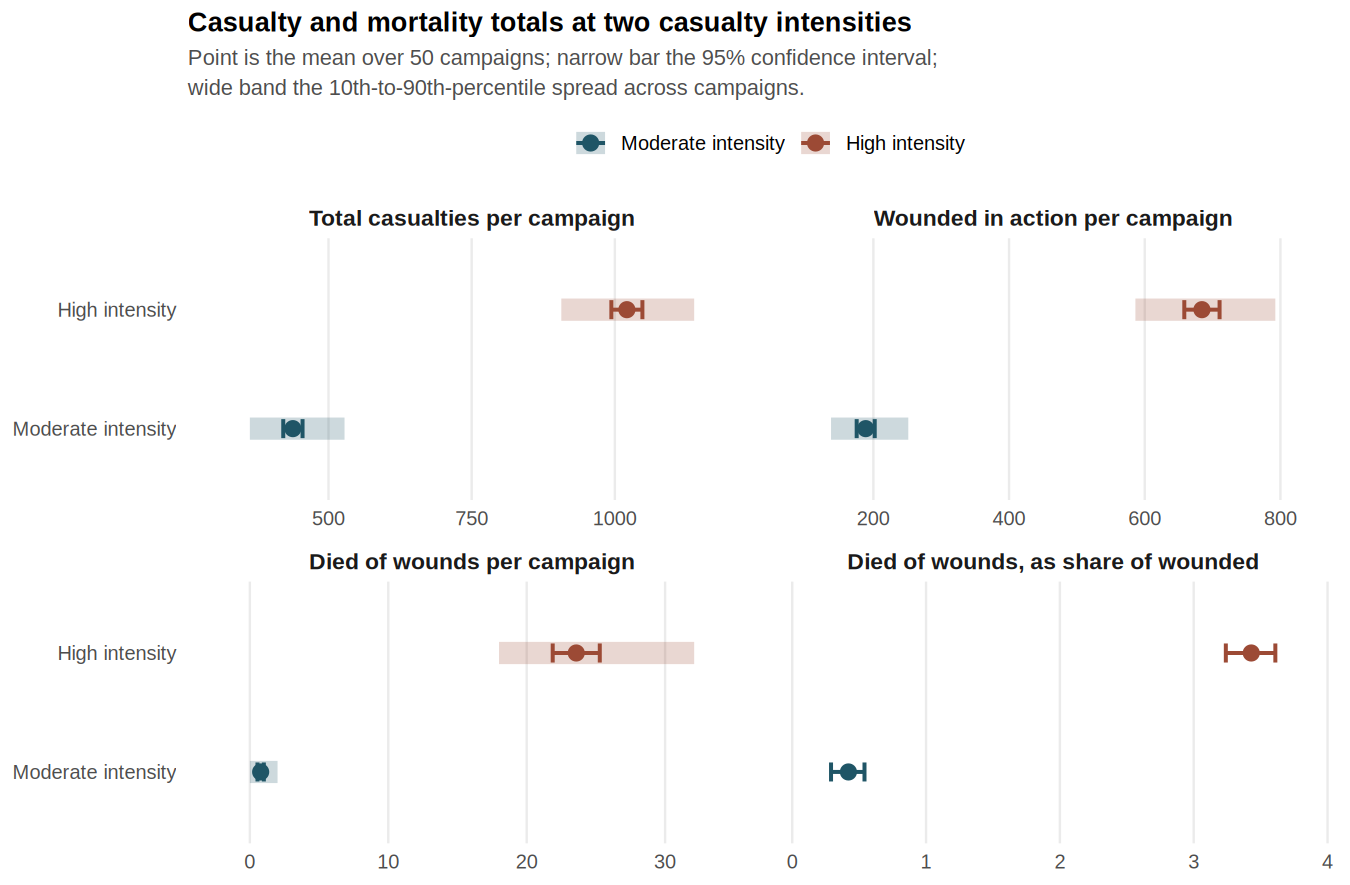
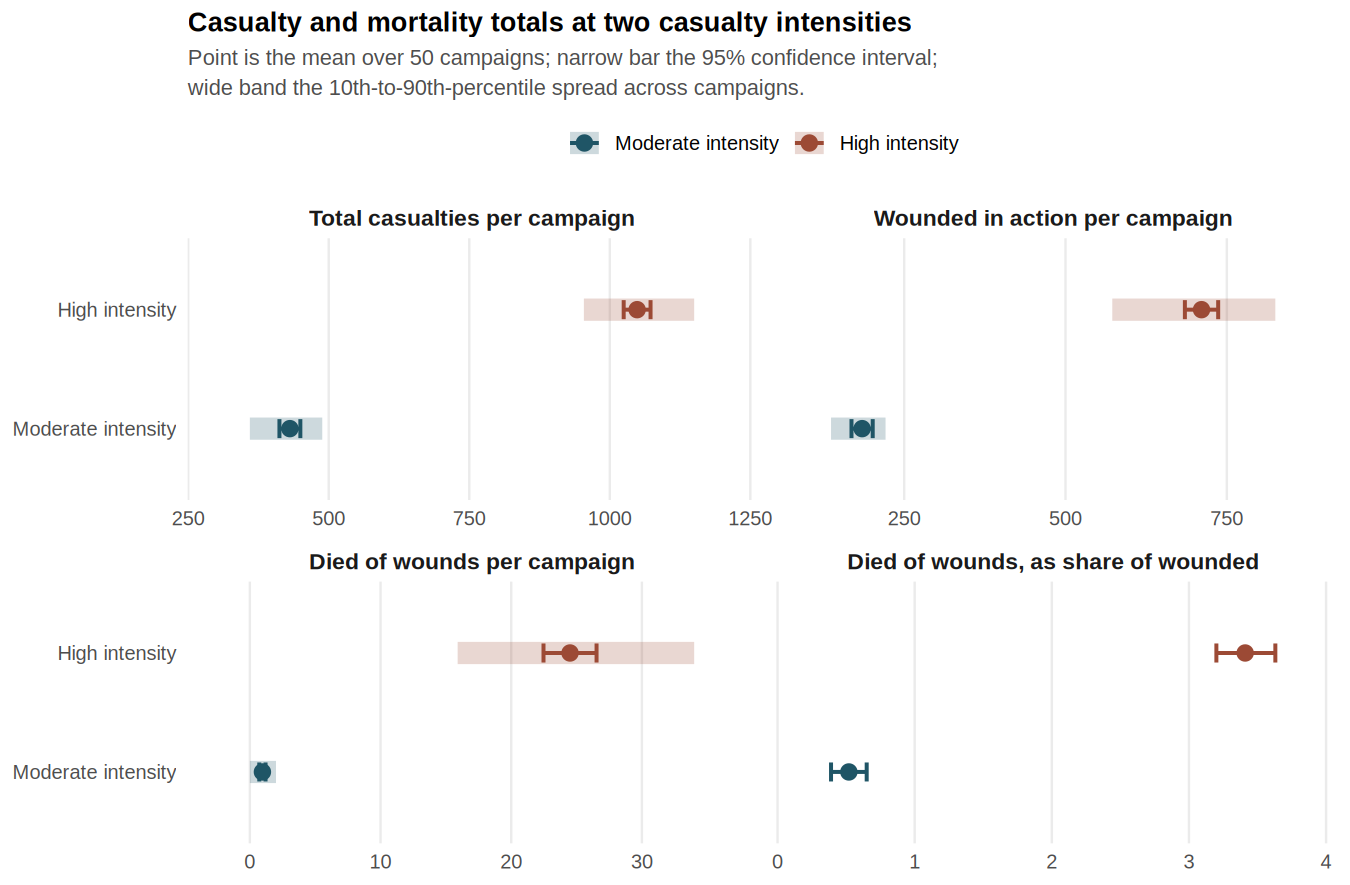
docs(issue-312): refresh the comparative scenario results for the new defaults
Re-measures the 50-replication comparative scenario analysis under the
sustained-campaign defaults and updates every figure in
docs/Multi_Run_Analysis.md that derives from it, together with the three
paper figures that are rendered from those tables.

Totals, moderate then high intensity: casualties 430.9 [412.3, 449.5] and
1,048.6 [1,024.7, 1,072.5]; wounded 184.8 [168.3, 201.2] and 710.8 [685.0,
736.6]; died of wounds 0.96 [0.72, 1.20] and 24.50 [22.47, 26.53]; deaths as
a share of wounded 0.52% [0.39%, 0.65%] and 3.41% [3.20%, 3.63%]. The volume
ratio moves from 2.33 to 2.43 and the mortality ratio from 30.2 to 25.5.

Queue groups move in the direction the evacuation policy change predicts. R2E
holding falls from 0.598 to 0.272, more than halving, and six of the thirty
R2E holding beds are now idle across all fifty replications at moderate
intensity, so the pool is no longer consumed by convalescence. R2E intensive
care falls from 0.131 to 0.092. R2E operating theatre rises from 1.063 to
1.677, more casualties reaching theatre once the beds behind it are free. R2B
holding is essentially unchanged at 0.571 against 0.593, which is the expected
result and serves as a control: R2B is untouched by either default, so a large
move there would have indicated an aggregation error rather than an effect.

The prose that quotes these values is updated with them, in the abstract, the
diagnosis section, the interval-interpretation worked example, the conclusion
[…]

diff --git a/docs/Multi_Run_Analysis.md b/docs/Multi_Run_Analysis.md
@@ -18,7 +18,7 @@ A discrete event simulation of a brigade force with aligned health assets was ru
 
 **Results**
 
-Casualty volume rises 2.33-fold from moderate to high intensity, while queues grow disproportionately. The Role 2 Enhanced (R2E) operating theatre queue rises about 36-fold, Role 2 Basic (R2B) holding beds about 5.5-fold, R2E holding beds about 4.5-fold and R2E intensive care about 4.3-fold. Surgical team scheduling is the major system constraint: a casualty occupies a theatre while waiting for a rostered surgical team, and the teams work 12-hour shifts against theatres available around the clock. R2E intensive care runs close to full at both intensities. The ambulance and truck fleets hold margin at both intensities.
+Casualty volume rises 2.43-fold from moderate to high intensity, while queues grow disproportionately. The Role 2 Enhanced (R2E) operating theatre queue rises about 26-fold, Role 2 Basic (R2B) holding beds about 5.6-fold, R2E holding beds about 5.3-fold and R2E intensive care about 6.4-fold. Surgical team scheduling is the major system constraint: a casualty occupies a theatre while waiting for a rostered surgical team, and the teams work 12-hour shifts against theatres available around the clock. R2E intensive care runs close to full at both intensities. The ambulance and truck fleets hold margin at both intensities.
 
 **Conclusion**
 
@@ -118,7 +118,7 @@ $$\bar{x} \pm t_{0.975,\;n-1}\,\frac{s}{\sqrt{n}}$$
 
 where $n$ is the number of runs, $\bar{x}$ the average across them and $s$ the variation between them. Dividing by the square root of the number of runs is what makes additional runs improve precision: quadrupling the runs halves the width of the interval.
 
-Two points govern how these intervals should be used. First, the interval describes how precisely the average is known, not how much one campaign varies. Several tables also report a 10th-to-90th-percentile range, which is the spread across campaigns, and it is many times the wider of the two. At moderate intensity, for example, the average campaign produces 437.8 casualties and that average is known to within about 17 either way, while the campaigns themselves range from 363 to 528. Sizing against 438 under-provides for the campaign that actually occurs. Second, where two intervals overlap, the simulation has not established a difference between them, and the gap between the two averages should not be acted on as though it were real.
+Two points govern how these intervals should be used. First, the interval describes how precisely the average is known, not how much one campaign varies. Several tables also report a 10th-to-90th-percentile range, which is the spread across campaigns, and it is many times the wider of the two. At moderate intensity, for example, the average campaign produces 430.9 casualties and that average is known to within about 19 either way, while the campaigns themselves range from 360 to 489. Sizing against 431 under-provides for the campaign that actually occurs. Second, where two intervals overlap, the simulation has not established a difference between them, and the gap between the two averages should not be acted on as though it were real.
 
 ### Replication Count and Resolution
 
@@ -150,7 +150,7 @@ Element, bed and transport fleet sizes are parameters a planner using the simula
 
 <small>[Return to Top](#contents)</small>
 
-**The establishment gives way at the R2E operating theatres before anywhere else, and it is already under strain at moderate intensity rather than only at high.** Casualty volume rises by a factor of 2.33 from moderate to high intensity while the R2E theatre queue rises by a factor of about 36. Sizing the system from the casualty ratio alone would under-provide surgery by more than an order of magnitude.
+**The establishment gives way at the R2E operating theatres before anywhere else, and it is already under strain at moderate intensity rather than only at high.** Casualty volume rises by a factor of 2.43 from moderate to high intensity while the R2E theatre queue rises by a factor of about 26. Sizing the system from the casualty ratio alone would under-provide surgery by an order of magnitude.
 
 ### Comparative Scenario Analysis
 
@@ -158,14 +158,14 @@ Element, bed and transport fleet sizes are parameters a planner using the simula
 
 | Metric | Moderate intensity | High intensity | Ratio |
 |---|---|---|---|
-| Total casualties/run | 437.8 [421.0, 454.7] (p10–p90: 362.7–528.0) | 1,021.0 [993.9, 1,048.1] (p10–p90: 906.5–1,138.5) | 2.33× |
-| Wounded in action/run | 188.7 [175.4, 202.0] (p10–p90: 137.6–251.5) | 684.3 [658.3, 710.3] (p10–p90: 586.2–792.5) | 3.63× |
-| Died of wounds/run | 0.78 [0.55, 1.01] (p10–p90: 0–2.0) | 23.58 [21.88, 25.28] (p10–p90: 18.0–32.1) | 30.2× |
-| Died of wounds, as share of wounded | 0.42% [0.29%, 0.54%] | 3.43% [3.24%, 3.61%] | 8.24× |
+| Total casualties/run | 430.9 [412.3, 449.5] (p10–p90: 359.7–488.5) | 1,048.6 [1,024.7, 1,072.5] (p10–p90: 953.9–1,150.1) | 2.43× |
+| Wounded in action/run | 184.8 [168.3, 201.2] (p10–p90: 136.6–221.1) | 710.8 [685.0, 736.6] (p10–p90: 572.5–825.2) | 3.85× |
+| Died of wounds/run | 0.96 [0.72, 1.20] (p10–p90: 0–2.0) | 24.50 [22.47, 26.53] (p10–p90: 15.9–34.0) | 25.5× |
+| Died of wounds, as share of wounded | 0.52% [0.39%, 0.65%] | 3.41% [3.20%, 3.63%] | 6.56× |
 
-Casualty counts vary widely from campaign to campaign, because each arrival stream draws its daily rate from a distribution before placing that day's arrivals within the day [[9]](#references), so the between-day variation FORECAS reports [[3]](#references) reaches the output rather than being averaged away. At moderate intensity the total spans 362.7 to 528.0 casualties between the 10th and 90th percentiles against an average of 437.8. Surge capacity therefore has to be judged against the heavy day rather than the average one.
+Casualty counts vary widely from campaign to campaign, because each arrival stream draws its daily rate from a distribution before placing that day's arrivals within the day [[9]](#references), so the between-day variation FORECAS reports [[3]](#references) reaches the output rather than being averaged away. At moderate intensity the total spans 359.7 to 488.5 casualties between the 10th and 90th percentiles against an average of 430.9. Surge capacity therefore has to be judged against the heavy day rather than the average one.
 
-Deaths of wounds rise 30-fold while casualty volume rises 2.33-fold, but that comparison measures more than the health system, each intensity carrying the survival experience of its own campaign as well as its casualty rate.
+Deaths of wounds rise 25-fold while casualty volume rises 2.43-fold, but that comparison measures more than the health system, each intensity carrying the survival experience of its own campaign as well as its casualty rate.
 
 ![Four panels, one per metric, each plotting moderate and high casualty intensity as a point with a narrow 95% confidence interval bar and a wide band showing the 10th-to-90th-percentile spread across campaigns, for total casualties, wounded in action, deaths of wounds and deaths as a share of wounded](../images/paper_casualty_totals.png)
 
@@ -174,15 +174,15 @@ The width of the pale band against the narrow bar inside it is the point to take
 | Resource group | Moderate intensity mean queue | High intensity mean queue | Ratio |
 |---|---|---|---|
 | R2B operating theatre | 0.000 [0.000, 0.000] | 0.000 [0.000, 0.000] | not applicable |
-| R2B holding beds | 0.593 [0.501, 0.685] | 3.228 [3.005, 3.452] | 5.45× |
-| R2E operating theatre | 1.063 [0.691, 1.435] | 38.17 [34.01, 42.33] | 35.9× |
-| R2E intensive care | 0.131 [0.104, 0.159] | 0.564 [0.464, 0.664] | 4.29× |
-| R2E holding beds | 0.598 [0.437, 0.758] | 2.694 [2.449, 2.938] | 4.51× |
-| Ambulance and truck fleets | 0.0038 [0.0000, 0.0078] | 0.0278 [0.0196, 0.0361] | 7.25× |
+| R2B holding beds | 0.571 [0.447, 0.695] | 3.213 [2.885, 3.541] | 5.63× |
+| R2E operating theatre | 1.677 [0.154, 3.199] | 43.83 [39.35, 48.32] | 26.1× |
+| R2E intensive care | 0.092 [0.065, 0.118] | 0.584 [0.476, 0.692] | 6.37× |
+| R2E holding beds | 0.272 [0.112, 0.433] | 1.454 [1.208, 1.700] | 5.34× |
+| Ambulance and truck fleets | 0.019 [0.000, 0.047] | 0.041 [0.019, 0.064] | 2.16× |
 
 Each figure is the average queue at that group of resources across a campaign, averaged over the 50 runs. A resource that stands idle throughout a campaign contributes a zero rather than dropping out, so the figures describe the full establishment rather than only its busy parts.
 
-![Horizontal plot of queue growth factor on a log scale for five resource groups, with a dashed reference line at the 2.33-fold rise in casualty volume, each point sized by its absolute queue at high intensity, R2E operating theatre furthest right and largest](../images/paper_queue_growth.png)
+![Horizontal plot of queue growth factor on a log scale for five resource groups, with a dashed reference line at the 2.43-fold rise in casualty volume, each point sized by its absolute queue at high intensity, R2E operating theatre furthest right and largest](../images/paper_queue_growth.png)
 
 Every queue grows faster than the casualty volume driving it. R2E operating theatre grows the most and carries by far the largest absolute queue. The ambulance and truck fleets grow second fastest, which is why the figure sizes each point by its absolute queue: transport grows 7.25-fold from a base so small that the resulting queue is still a fraction of one casualty.
 
@@ -456,7 +456,7 @@ Two narrower caveats apply. Clinical teams are taken whole rather than by indivi
 
 This paper set out to identify options for improving the land-based trauma system, and to establish where that system fails first as casualty intensity rises. It did so by running a discrete event simulation of a brigade force with aligned health assets at two casualty intensities, both derived from historical campaign data, and by testing individual design and policy settings a planner controls.
 
-**The system does not scale from moderate to high casualty intensity, and it fails at the R2E operating theatres first.** Casualty volume rises 2.33-fold while the R2E theatre queue rises about 36-fold, R2B holding about 5.5-fold and R2E holding about 4.5-fold. The constraint is surgical team scheduling rather than theatre space, because a casualty occupies a theatre while waiting for a team, and the teams work 12-hour shifts against theatres available around the clock. That contention is present at moderate intensity too, so it is a standing weakness rather than one confined to peer conflict.
+**The system does not scale from moderate to high casualty intensity, and it fails at the R2E operating theatres first.** Casualty volume rises 2.43-fold while the R2E theatre queue rises about 26-fold, R2B holding about 5.6-fold and R2E holding about 5.3-fold. The constraint is surgical team scheduling rather than theatre space, because a casualty occupies a theatre while waiting for a team, and the teams work 12-hour shifts against theatres available around the clock. That contention is present at moderate intensity too, so it is a standing weakness rather than one confined to peer conflict.
 
 **Four options follow, and the first is the strongest.** Extending surgical team coverage towards 24 hours at R2B and R2E addresses the principal constraint and needs no additional operating theatres, though it does need provision in the operational viability period, organisational design and workforce model. Increasing R2B holding capacity, or setting an evacuation threshold, addresses the second constraint. Holding casualties at R2B for a team about to return demonstrably reduces the surgical load transferred rearward. Three ambulances are sufficient for inter-echelon medical evacuation in support of a brigade. Delivering post-operative intensive care forward at R2B is not recommended, showing no measurable benefit at any setting tested.
 
